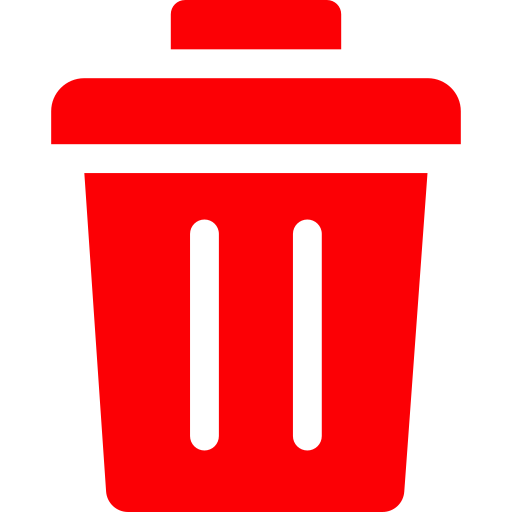
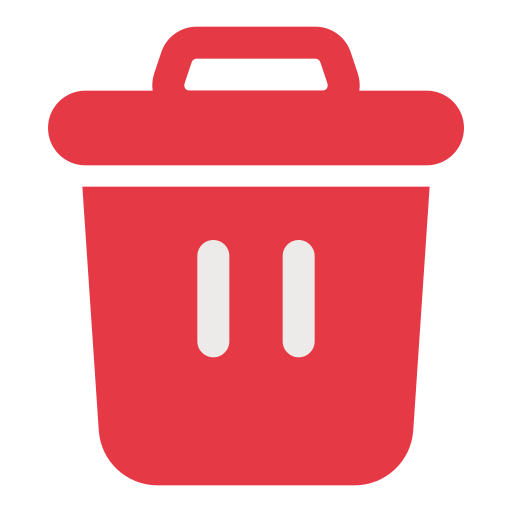
fixing tablet screen sizes

diff --git a/src/pages/Home.tsx b/src/pages/Home.tsx
@@ -30,7 +30,7 @@ function Home() {
 
    return <div className='maincontent'>
      
-     <h1>Your notes</h1>
+     <h1 className={`font-bold text-xl ${homeStyles['page-header']} text-center `}>Your notes</h1>
 
     {NotesArr.length===0?
   
@@ -38,7 +38,9 @@ function Home() {
     <div className={
           !isDark?`flex 
           flex-col 
-          shadow-lg border-collapse border-1 border-slate-400  
+          shadow-lg 
+          border-collapse border-1 
+          border-slate-400  
           rounded-sm  
           items-center 
           justify-center  
@@ -61,19 +63,36 @@ function Home() {
             <span className=' cursor-pointer font-semibold text-lg'>create a new note</span>
         </Link>
         </div>: 
-        <div>
+        <div
+        className={
+          `flex 
+          flex-col 
+          shadow-lg border-collapse border-1 
+          border-slate-300  
+          bg-slate-100 
+          rounded-sm  
+          items-center 
+          justify-start  
+          text-center
+          ${homeStyles['Items-Window']}
+          
+          `}
+>
         {
           NotesArr.map(item=>{
-            return(<div key={item.id}>
-              <span><strong>Subject:</strong>{item.subject}</span>
+            return(
+            
+            
+            <div className={`${homeStyles['note']} bg-slate-300 border-none  rounded-md w-[100%] text-center`}  key={item.id}>
+              <span>Subject: <strong> {item.subject}</strong></span>
               <br/>
 
-              <div className='inline-flex'>
+              <div className='inline-flex items-center justify-center  ' >
                 <Link to={`/notes/${item.id} `}>
-                  <button className='h-8 w-20 text-slate-100 bg-blue-500 rounded-sm'>view more</button>
+                  <button className={`${homeStyles['noteBtn']} h-8 w-20 text-slate-100 bg-blue-500 rounded-sm`}>view more</button>
                 </Link>
 
-                <button className='h-8 w-20 text-slate-100 bg-red-500 rounded-sm'onClick={()=>deleteNote(item.id)}>
+                <button className={` ${homeStyles['noteBtn']} h-8 w-20 text-slate-100 bg-red-500 rounded-sm`}onClick={()=>deleteNote(item.id)}>
                   delete
                 </button>
               </div>

diff --git a/src/pages/Note.tsx b/src/pages/Note.tsx
@@ -48,14 +48,54 @@ function Note() {
 
   return (
     <>
-      {!shouldEdit?<div>
+      {!shouldEdit?
+      
+      <div className={ `
+        shadow-lg
+        border-collapse 
+        border-1 border-slate-400  
+        bg-slate-100 
+        text-slate-950 
+        flex flex-col
+        items-center justify-center
+        text-center
+        rounded-sm  
+         ${EditPageStyles['EditForm']} 
+         ` }>
 
-          <h1>{`Title:${noteData.subject}`}</h1>
 
-          <div>{`Body:${noteData.body}`}</div>
-          
-          <button onClick={()=>navigate('/')}>go back</button>
-          <button onClick={handleEditMode}>edit</button>
+          <h1 className={`font-bold text-xl ${EditPageStyles['page-header']}`}>Note Details</h1>
+          <label className="font-semibold" htmlFor="note_subject">Subject</label>
+          <p id='note_subject'>{`${noteData.subject}`}</p>
+          <br/>
+           <label className="font-semibold " htmlFor="note_body">Note Body</label>
+          <div id='note_subject'>{`${noteData.body}`}</div>
+          <br/>
+           <div className={`inline-flex `}>
+            
+
+              <button  onClick={handleEditMode} 
+              className={`${EditPageStyles['formButton']} 
+              
+              text-slate-100 
+              rounded-sm 
+              font-bold 
+              bg-blue-500 
+              w-25 
+              h-10`}>
+               Edit note
+              </button>
+
+
+
+                <button onClick={()=>navigate('/')}
+              className={`${EditPageStyles['formButton']} 
+              text-slate-100 rounded-sm
+               font-bold bg-red-500 
+               w-25 h-10`}>
+                close
+              </button>
+            </div>  
       </div>:
       <>
       <h1 className={`font-bold text-xl ${EditPageStyles['page-header']} text-center `}>Edit your note</h1>

diff --git a/src/pages/Settings.tsx b/src/pages/Settings.tsx
@@ -54,7 +54,7 @@ const turnOn=()=>{
   return (
     <div className='maincontent'>
       
-      <h1 className={`text-xl font-bold`}>Settings</h1>
+      <h1 className={` ${settingsStyles['settings-header']} text-center text-xl font-bold`}>Settings</h1>
       <br/>
       
       <div className={ 
